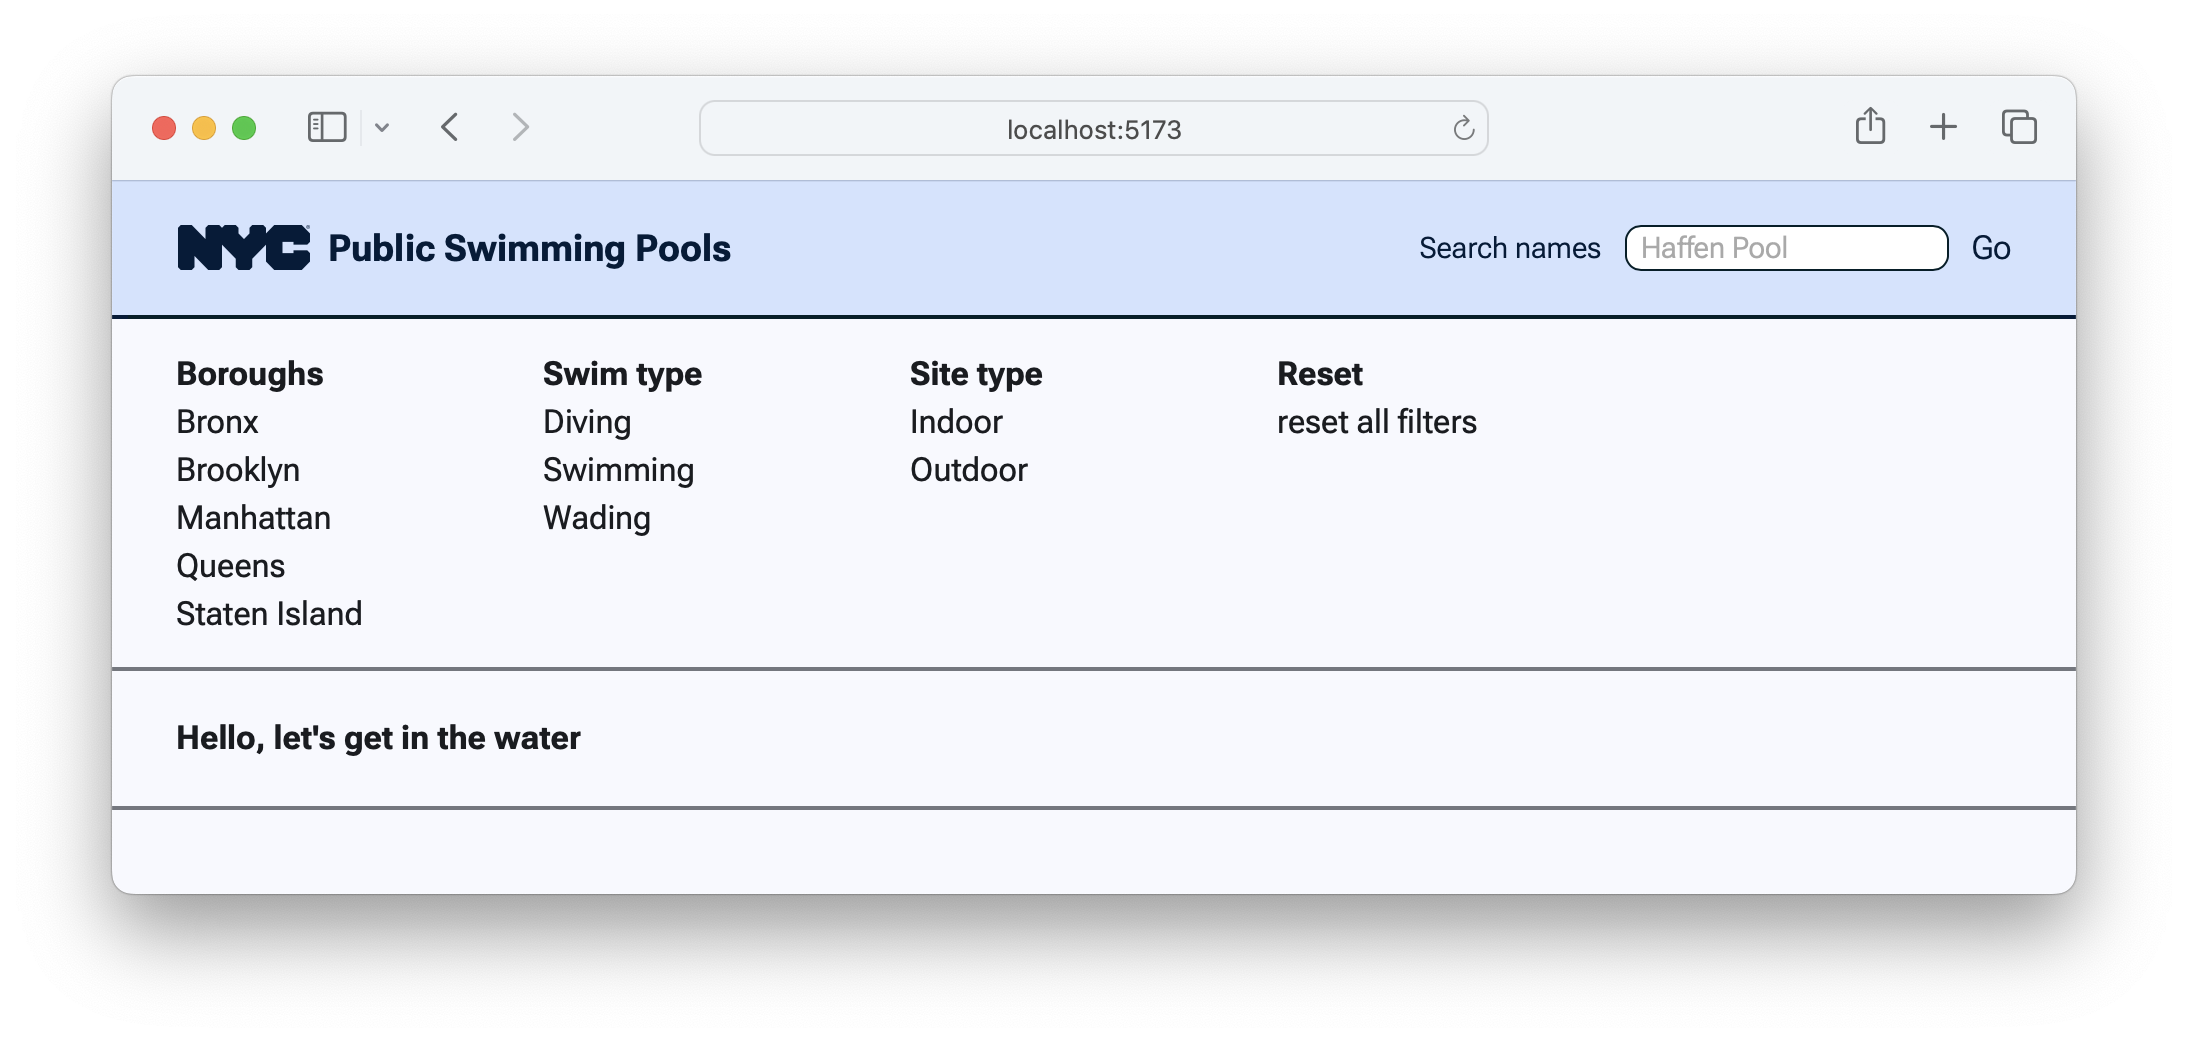
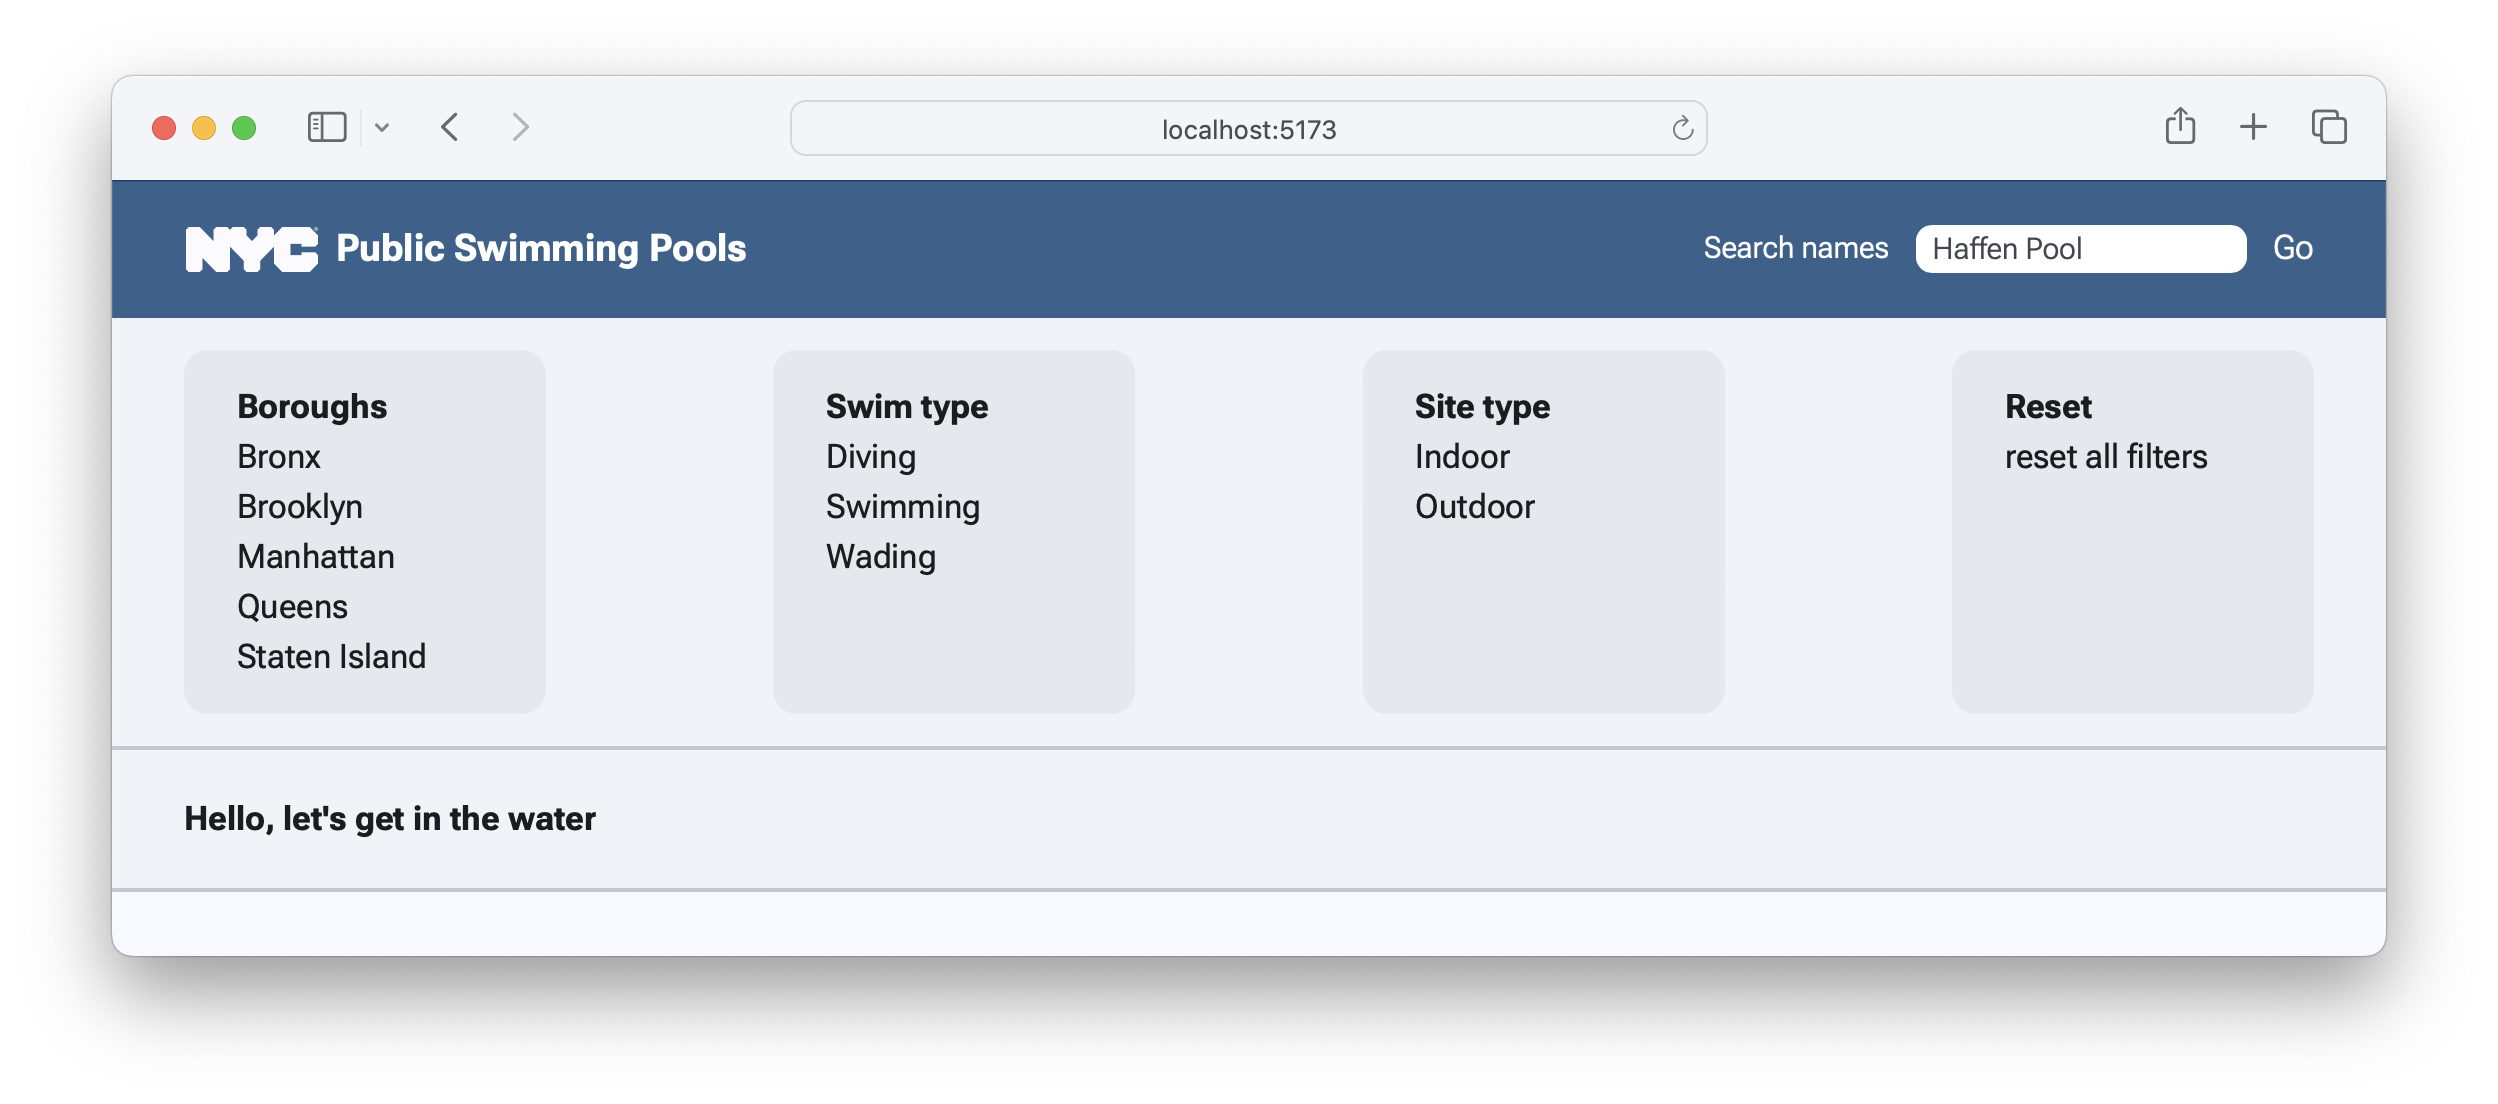
Redo screen shots after tweaking design. Update on Readme.

diff --git a/README.md b/README.md
@@ -15,7 +15,7 @@ Project meets general accessibility (WACG) and cross-browser requirements. More 
 * Outdoor swimming pools in Queens
 ![screen shot of project](/screenshots/nyc-public-pools-screenshot2.png?s=600)
 
-* With Flushing Meadows Corona Park Pool selected.
+* With Astoria Pool selected.
 ![screen shot of project](/screenshots/nyc-public-pools-screenshot3.png?s=600)
 
 ## Installation and Setup Instructions
